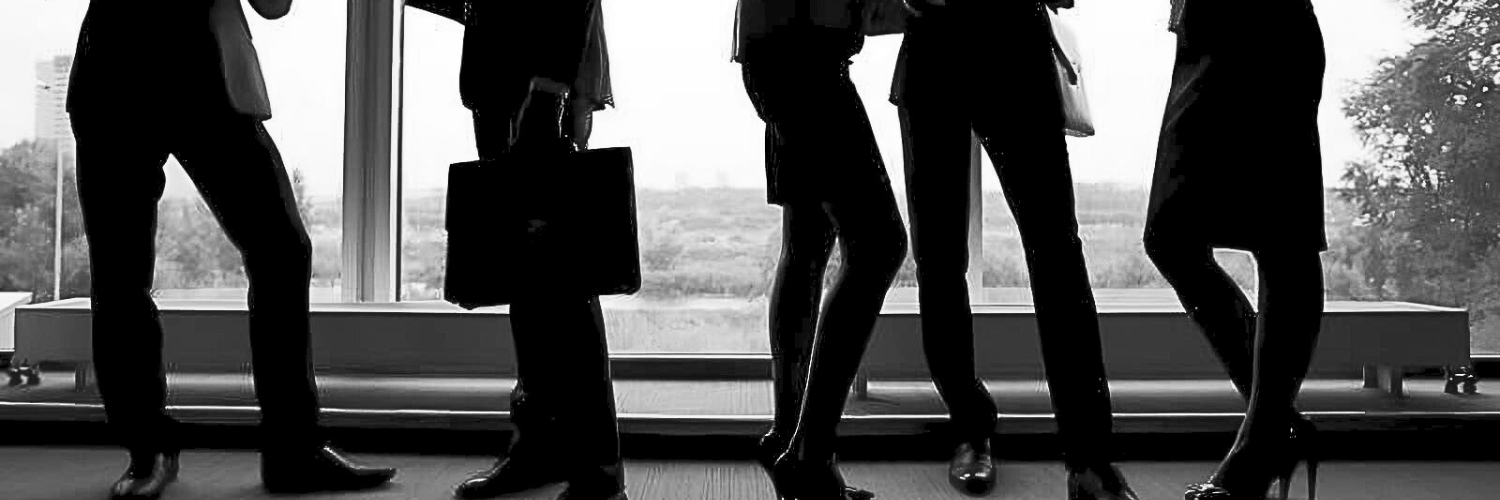
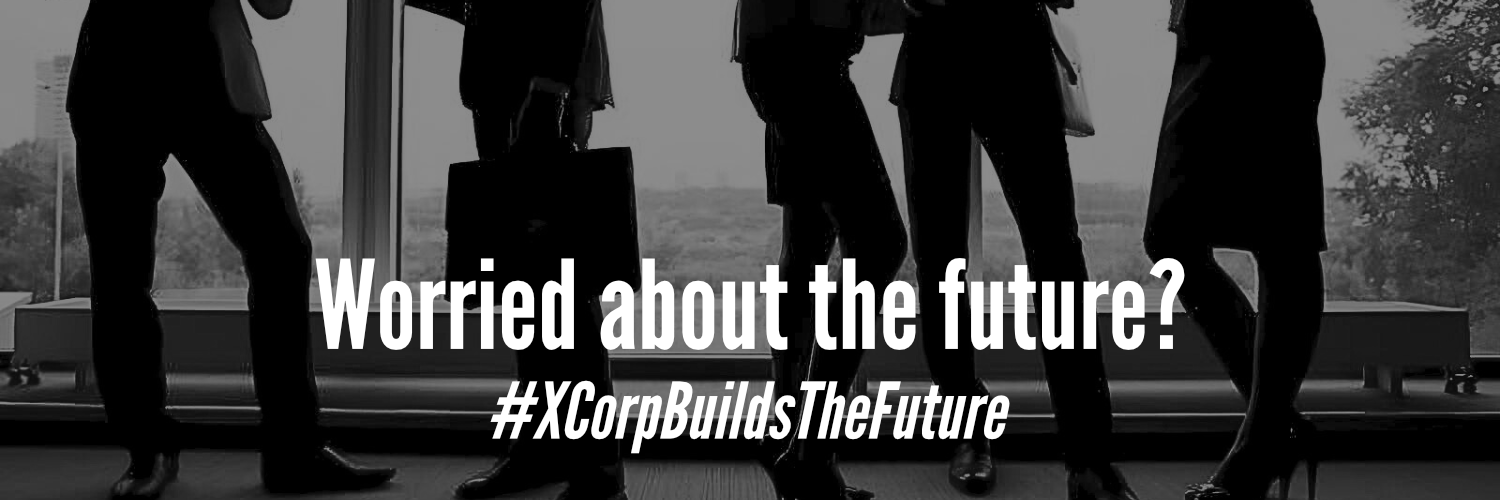
xcorps page done and resized

diff --git a/xcorps.html b/xcorps.html
@@ -119,27 +119,18 @@
                 </div> 
                 <div class="carousel-inner"> 
                     <div class="carousel-item active"> 
-                        <img aria-hidden="true" class="xcorpsbg1" height="100%" preserveAspectRatio="xMidYMid slice" width="100%" src="/images/xcx.png">
+                        <img aria-hidden="true" class="img-fluid " height="100%"  width="100%" src="/images/xcx.png">
                             
-                        <div class="container"> 
-                            <div class="carousel-caption text-start">
-                                 <h1 class="text-dark">Example headline.</h1> 
-                                 <p class="opacity-75 text-dark">Some representative placeholder content for the first slide of the carousel.</p> 
-                                 <p>
-                                    <a class="btn btn-lg btn-primary" href="#">Sign up today</a>
-                                </p> 
+                        <div class="container-fluid"> 
+                            <div class="carousel-caption text-start ">
                             </div> 
                         </div> 
                     </div> 
                     <div class="carousel-item"> 
-                        <img aria-hidden="true" class="xcorpsbg1" height="100%" preserveAspectRatio="xMidYMid slice" width="100%" src="/images/xxccx.png">
+                        <img aria-hidden="true" class="img-fluid imgxcorpsbg1" height="100%" preserveAspectRatio="xMidYMid slice" width="100%" src="/images/xxccx.png">
                         <div class="container"> 
-                            <div class="carousel-caption text-end"> 
-                                <h1 class="text-dark">Another example headline.</h1> 
-                                <p class="text-dark">Some representative placeholder content for the second slide of the carousel.</p> 
-                                <p>
-                                    <a class="btn btn-lg btn-primary" href="#">Learn more</a>
-                                </p> 
+                            <div class="carousel-caption text-end ms-5 ps-5"> 
+                               
                             </div> 
                         </div>
                      </div> 
@@ -147,11 +138,7 @@
                         <img aria-hidden="true" class="xcorpsbg1" height="100%" preserveAspectRatio="xMidYMid slice" width="100%" src="/images/4.png">
                         <div class="container">
                              <div class="carousel-caption text-end"> 
-                                <h1>One more for good measure.</h1>
-                                 <p>Some representative placeholder content for the third slide of this carousel.</p> 
-                                 <p>
-                                    <a class="btn btn-lg btn-primary" href="#">Browse gallery</a>
-                                </p> 
+                                
                             </div> 
                         </div> 
                     </div> 
@@ -166,97 +153,103 @@
                     </button> 
         </div>
 
+        <div class="container my-5"> 
+          <div class="row p-4 p-3 align-items-center rounded-3 border shadow-lg my-auto"> 
+            <div class="col-lg-7 p-3 p-lg-5 pt-lg-3 "> 
+              <img class="img-fluid m-2" src="/Images/MASTER GAME LOGO.png">
+              <h3 class=" fw-bold lh-1 m-2">Save the Earth from corporate</h3> 
+              <p class="lead">You play as an I.A.N (Interplanetary Android Navigator) rover as Colin the engineer trains you for your upcoming mission to the moon Oberon to go after more Xenomorphite for X-corps. This was totally not rushed at all and you are 100% ready for this mission.  <br>Discover X-corps mission, explore their training warehouses and uncover the secrets of this universe on the brink of collapse. </p> 
+              <div class="d-grid gap-2 d-md-flex justify-content-center mb-4 mb-lg-3"> 
+                <a><button type="button" class="btn btn-danger btn-lg px-4 me-md-2 fw-bold">Steam page</button> </a>
+                <a><button type="button" class="btn btn-dark btn-lg px-4 me-md-2 fw-bold">Itch page</button> </a>
+                <a><button type="button" class="btn btn-outline-secondary btn-lg px-4">More Lore</button> </a>
+              </div> 
+            </div> 
+            <div class="col-lg-4 "> 
+              <img class="rounded-lg-3 mx-auto p-3 img-fluid" src="/Images/DTG itch cover image.png" > 
+            </div> 
+          </div> 
+        </div>
+
          <!-- Three columns of text below the carousel --> 
-          <div class="row text-center m-auto py-3 justify-content-center"> 
+          <div class="row text-center m-auto py-3 px-3 justify-content-center"> 
             <div class="col-lg-4"> 
-                <svg aria-label="Placeholder" class="bd-placeholder-img rounded-circle" height="140px" preserveAspectRatio="xMidYMid slice" role="img" width="140px" xmlns="http://www.w3.org/2000/svg">
-                    <title>Placeholder</title>
-                    <rect width="100%" height="100%" fill="var(--bs-secondary-color)"></rect>
-                </svg> 
-                <h2 class="fw-normal">Heading</h2> 
-                <p>Some representative placeholder content for the three columns of text below the carousel. This is the first column.</p> 
+                <img class="rounded-circle img-fluid" style="filter: grayscale(100%); max-height: 150px;" src="/Images/homem-de-negocios-que-esta-em-um-telhado-que-preve-o-sucesso-futuro-de-seu-negocio_684882-170.png">
+                
+                <h2 class="fw-normal">Leaders</h2> 
+                <p>The future is uncertain. Let X-Corp guide your path. </p> 
                 <p>
                     <a class="btn btn-secondary" href="#">View details »</a>
                 </p> 
             </div>
             <!-- /.col-lg-4 -->
               <div class="col-lg-4">
-                 <svg aria-label="Placeholder" class="bd-placeholder-img rounded-circle" height="140" preserveAspectRatio="xMidYMid slice" role="img" width="140" xmlns="http://www.w3.org/2000/svg">
-                    <title>Placeholder</title>
-                    <rect width="100%" height="100%" fill="var(--bs-secondary-color)"></rect>
-                </svg> 
-                <h2 class="fw-normal">Heading</h2>
-                 <p>Another exciting bit of representative placeholder content. This time, we've moved on to the second column.</p>
+                 <img class="rounded-circle img-fluid" style="filter: grayscale(100%); max-height: 150px;" src="/Images/riccardo-annandale-7e2pe9wjL9M-unsplash.jpg">
+                <h2 class="fw-normal">Hope</h2>
+                 <p>Trust X-corps and the I.A.N.s. With us the future is brighter then ever</p>
                   <p>
                     <a class="btn btn-secondary" href="#">View details »</a>
                 </p> 
             </div>
             <!-- /.col-lg-4 --> 
              <div class="col-lg-4">
-                 <svg aria-label="Placeholder" class="bd-placeholder-img rounded-circle" height="140" preserveAspectRatio="xMidYMid slice" role="img" width="140" xmlns="http://www.w3.org/2000/svg">
-                    <title>Placeholder</title>
-                    <rect width="100%" height="100%" fill="var(--bs-secondary-color)"></rect>
-                </svg> 
-                <h2 class="fw-normal">Heading</h2> 
-                <p>And lastly this, the third column of representative placeholder content.</p>
+                 <img  class="rounded-circle img-fluid" style="filter: grayscale(100%); max-height: 150px;" src="/Images/AAGCEJC9ttU_1757935767610.jpg">
+                <h2 class="fw-normal">Technology</h2> 
+                <p>There's always a price for progress. X-Corp makes sure it's fairly distributed. </p>
                  <p><a class="btn btn-secondary" href="#">View details »</a></p> 
                 </div>
                 <!-- /.col-lg-4 --> 
                 </div>
                 <!-- /.row -->
                   <!-- START THE FEATURETTES --> 
-                   <section class="text-center mx-auto px-3 py-3 justify-content-center">
+                   <section class="text-center mx-auto px-5 py-3 justify-content-center">
                    <hr class="featurette-divider">
-                   <div class="row featurette"> 
-                    <div class="col-md-7"> 
-                        <h2 class="featurette-heading fw-normal lh-1">First featurette heading. 
-                            <span class="text-body-secondary">It’ll blow your mind.</span>
+                   <div class="row featurette text-center mx-auto"> 
+                    <div class="col-md-7 justify-content-center my-auto"> 
+                        <h2 class="featurette-heading fw-normal lh-1">Interplanetary Android Navigator 
+                            <br><span class="fst-italic">The I.A.N.s</span>
                         </h2> 
-                        <p class="lead">Some great placeholder content for the first featurette here. Imagine some exciting prose here.</p> 
+                        <p class="lead">Their objective was to facilitate the retrieval of these high-valued assets without the need of direct contact of our human resources and minimizing possible oversights, discrepancies or frictions due to human interaction. <br>
+                          The I.A.N units were created with a complex AI that has a clear directive, yet yields the capability to self-manage and overcome all obstacles possible with precise computational accuracy and calculations to insure the most profitable and least adverse outcomes. These units were extensively trained and tested to ensure this AI is ready to adapt to all possibilities in the Oberon moon, one of the 29 moons of Uranus. 
+                        </p> 
                     </div> 
                     <div class="col-md-5"> 
-                        <svg aria-label="Placeholder: 500x500" class="bd-placeholder-img bd-placeholder-img-lg featurette-image img-fluid mx-auto" height="500" preserveAspectRatio="xMidYMid slice" role="img" width="500" xmlns="http://www.w3.org/2000/svg">
-                            <title>Placeholder</title>
-                            <rect width="100%" height="100%" fill="var(--bs-secondary-bg)"></rect>
-                            <text x="50%" y="50%" fill="var(--bs-secondary-color)" dy=".3em">500x500</text>
-                        </svg> 
+                        <img  class="text-center img-fluid m-auto" style="max-width: 300px;"  src="/Images/ianhelloworld.gif">
+                           
+                
                     </div> 
                 </div> 
                 <hr class="featurette-divider">
                  <div class="row featurette"> 
-                    <div class="col-md-7 order-md-2"> 
-                        <h2 class="featurette-heading fw-normal lh-1">Oh yeah, it’s that good. 
-                            <span class="text-body-secondary">See for yourself.</span>
+                    <div class="col-md-7 order-md-2 my-auto"> 
+                        <h2 class="featurette-heading fw-normal lh-1">Our Mission? Simple. 
+                            <span class="fst-italic">Save Humanity</span>
                         </h2> 
-                        <p class="lead">Another featurette? Of course. More placeholder content here to give you an idea of how this layout would work with some actual real-world content in place.</p> 
+                        <p class="lead">X-corps was founded in 2032 after NASA, ESA and Roscosmos fell in a very negative light subsequent to the Perseverance Mission and related material retrieval initiatives from Mars did not achieve their intended outcomes. Despite an aggregate investment exceeding 400 billion in capital allocation and the regrettable loss of two human resources during a manned exploration and retrieval endeavor, these efforts did not yield the anticipated operational synergies. <br>Thus X-corps was founded. The company's mission was simple. <br>Leveraging strategic partnerships and optimized resource allocation and access.
+</p> 
                     </div> 
                     <div class="col-md-5 order-md-1">
-                         <svg aria-label="Placeholder: 500x500" class="bd-placeholder-img bd-placeholder-img-lg featurette-image img-fluid mx-auto" height="500" preserveAspectRatio="xMidYMid slice" role="img" width="500" xmlns="http://www.w3.org/2000/svg">
-                            <title>Placeholder</title>
-                            <rect width="100%" height="100%" fill="var(--bs-secondary-bg)"></rect>
-                            <text x="50%" y="50%" fill="var(--bs-secondary-color)" dy=".3em">500x500</text>
-                        </svg> 
+                         <img class="text-center img-fluid m-auto" src="/Images/xcorps billboard.png">
                     </div> 
                 </div> 
                 <hr class="featurette-divider"> 
                 <div class="row featurette"> 
-                    <div class="col-md-7"> 
+                    <div class="col-md-7 my-auto"> 
                         <h2 class="featurette-heading fw-normal lh-1">And lastly, this one. 
-                            <span class="text-body-secondary">Checkmate.</span>
+                            <span class="fst-italic">Our success</span>
                         </h2> 
-                        <p class="lead">And yes, this is the last block of representative placeholder content. Again, not really intended to be actually read, simply here to give you a better view of what this would look like with some actual content. Your content.</p> 
+                        <p class="lead">Following the successful global ratification of Proposition 43 in 2068, we achieved full stakeholder alignment and secured the necessary permissions to leverage our strategic resources. This milestone enables the deployment of our I.A.N. units alongside a select cohort of high-value human assets to the meteor's point of origin, in pursuit of optimizing asset retrieval and furthering our long-term operational objectives.<br>Ensuring the future is ours. 
+</p> 
                     </div> 
                     <div class="col-md-5">
-                         <svg aria-label="Placeholder: 500x500" class="bd-placeholder-img bd-placeholder-img-lg featurette-image img-fluid mx-auto" height="500" preserveAspectRatio="xMidYMid slice" role="img" width="500" xmlns="http://www.w3.org/2000/svg">
-                            <title>Placeholder</title>
-                            <rect width="100%" height="100%" fill="var(--bs-secondary-bg)"></rect>
-                            <text x="50%" y="50%" fill="var(--bs-secondary-color)" dy=".3em">500x500</text>
-                        </svg> 
+                         <img  class="text-center img-fluid m-auto"   src="/Images/proposition43 press.png">
                     </div> 
                 </div> 
                 <hr class="featurette-divider"> 
                 </section>
                 <!-- /END THE FEATURETTES --> 
+
+
 
     </main>
 

diff --git a/index.html b/index.html
@@ -14,7 +14,7 @@
 
     <meta name="color-scheme" content="light dark">
 
-    <a rel="me" href="https://mastodon.social/@untitledgamestudios">Mastodon</a>
+    <a rel="me" href="https://mastodon.social/@untitledgamestudios"></a>
     <meta name="fediverse:creator" content="@untitledgamestudios@mastodon.social">
 
     <!--SOCIAL MEDIA META DATA-->
@@ -38,7 +38,6 @@
         gtag('config', 'G-WZSK3VJSZ3');
       </script>
 <script type="text/javascript" data-cmp-ab="1" src="https://cdn.consentmanager.net/delivery/autoblocking/ca4961945278d.js" data-cmp-host="b.delivery.consentmanager.net" data-cmp-cdn="cdn.consentmanager.net" data-cmp-codesrc="0"></script>
-  </head>
     
     <!--FONTS-->
         <link
@@ -91,6 +90,7 @@
                 <a class="nav-link dropdown-toggle" href="#"  role="button" aria-expanded="false" data-bs-toggle="dropdown">OUR GAMES</a>
                 <ul class="dropdown-menu">
                   <li><a class="dropdown-item" href="https://ugs.pt/Droian.html">DROIAN</a></li>
+                  <li><a class="dropdown-item" href="/xcorps.html">DROIAN TRAINING GROUND</a></li>
                   <li><a class="dropdown-item" href="https://ugs.pt/Keep-wiping.html">KEEP WIPING</a></li>
                   <li><a class="dropdown-item" href="https://ugs.pt/Eksauria.html">EKSAURIA</a></li>
                   <li><a class="dropdown-item" href="https://ugs.pt/redrun.html">REDRUN</a></li>
